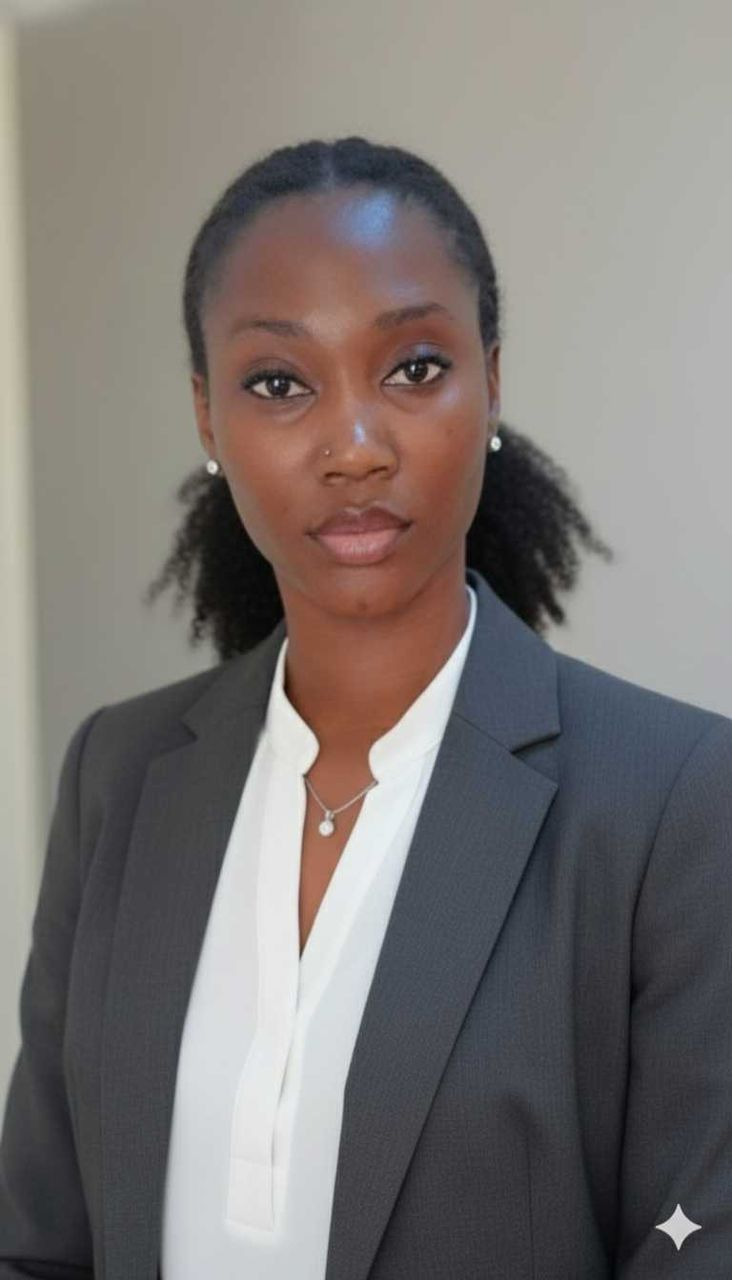
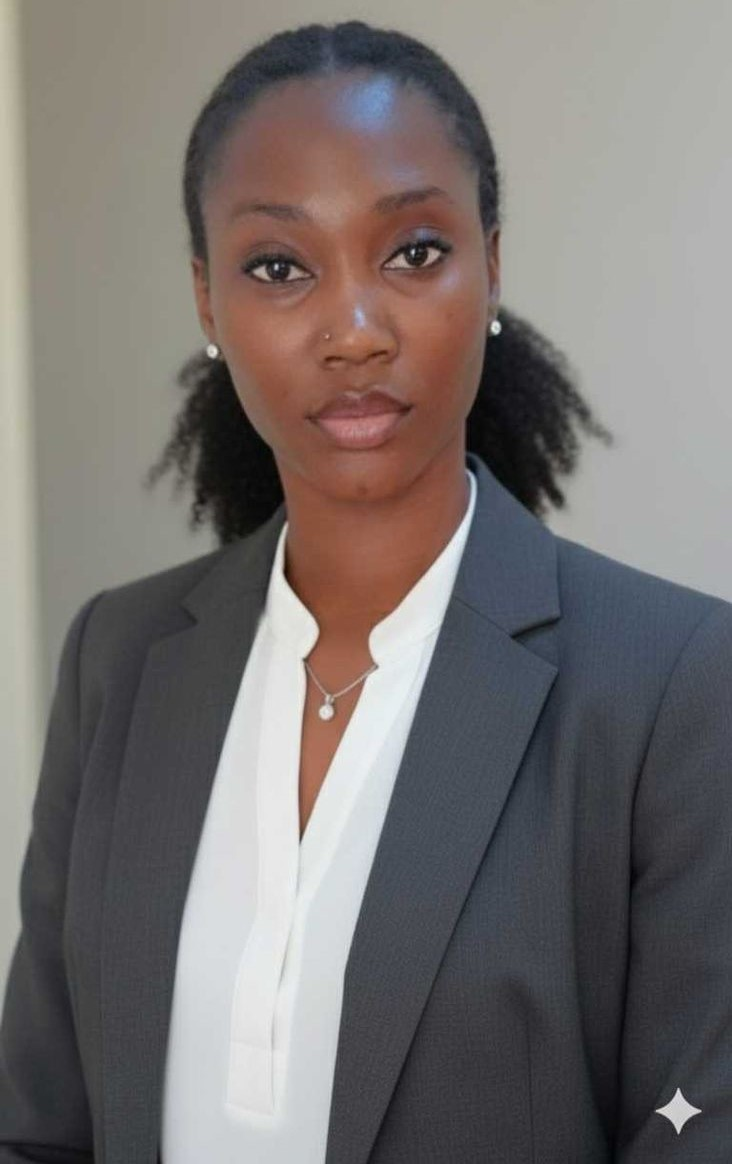
updates

diff --git a/src/components/about/Leadership.tsx b/src/components/about/Leadership.tsx
@@ -1,4 +1,3 @@
-import React from 'react';
 import { Instagram, Linkedin, X, } from 'lucide-react';
 import Link from 'next/link';
 import Image from 'next/image';
@@ -6,38 +5,39 @@ import Image from 'next/image';
 const leaders = [
   {
     id: 1,
+    name: "Stephanie Amarachi Patman",
+    title: "Managing Director & CEO",
+    image: "/people/amara.jpg",
+    x: "",
+    instagram: "https://www.instagram.com/amara.patman",
+    linkedin: "https://www.linkedin.com/in/stephanie-amarachi-patman-767992170/"
+  },
+  {
+    id: 2,
     name: "Victor Ogah Owoicho",
-    title: "Managing Director",
+    title: "Marketing Director",
     image: "/people/victor.jpg",
     x: "",
     instagram: "",
     linkedin: ""
   },
   {
-    id: 2,
+    id: 3,
     name: "Mgbebu Hilda Chiamaka",
     title: "Head of Finance and Investments",
     image: "/people/hilda.jpg",
     x: "",
     instagram: "",
-    linkedin: ""
+    linkedin: "https://www.linkedin.com/in/hilda-mgbebu-112b34194/"
   },
-  {
-    id: 3,
-    name: "Stephanie Amarachi Patman",
-    title: "Managing Director & CEO",
-    image: "/people/amara.jpg",
-    x: "",
-    instagram: "",
-    linkedin: ""
-  },
+
   {
     id: 4,
-    name: "Ochuwa Mercy Ochibo",
+    name: "Ochapa Mercy Ochiba",
     title: "Head of Operations",
     image: "/people/mercy.jpg",
     x: "",
-    instagram: "",
+    instagram: "https://www.instagram.com/ochiba25/",
     linkedin: ""
   },
   {
@@ -46,8 +46,8 @@ const leaders = [
     title: "Head of Legal & Compliance",
     image: "/people/joan.jpg",
     x: "",
-    instagram: "",
-    linkedin: ""
+    instagram: "https://www.instagram.com/terrific_joan_/",
+    linkedin: "https://www.linkedin.com/in/joan-anaba-210775232/"
   },
 ];
 
@@ -95,7 +95,7 @@ const Leadership = () => {
                   loading='lazy'
                   className="w-full h-full object-cover object-top transition-transform duration-700 group-hover:scale-105"
                 />
-                <div className="absolute inset-0 bg-gradient-to-t from-black/80 via-black/20 to-transparent" />
+                <div className="absolute inset-0 bg-linear-to-t from-black/80 via-black/20 to-transparent" />
               </div>
 
               {/* Content */}
@@ -111,7 +111,7 @@ const Leadership = () => {
                     rel="noopener noreferrer"
                     className="w-10 h-10 rounded-2xl border border-white/20 flex items-center justify-center text-gray-400 hover:text-white hover:border-amber-400 hover:bg-amber-400/10 transition-all duration-300 group/icon"
                   >
-                    <Instagram className="w-5 h-5 group-hover/icon:scale-110 transition-transform" />
+                    <Instagram className="w-5 h-5 text-purple-600 group-hover/icon:scale-110 transition-transform" />
                   </Link>}
 
                   {leader.x && <Link
@@ -120,7 +120,7 @@ const Leadership = () => {
                     rel="noopener noreferrer"
                     className="w-10 h-10 rounded-2xl border border-white/20 flex items-center justify-center text-gray-400 hover:text-white hover:border-amber-400 hover:bg-amber-400/10 transition-all duration-300 group/icon"
                   >
-                    <X className="w-5 h-5 group-hover/icon:scale-110 transition-transform" />
+                    <X className="w-5 h-5 text-white group-hover/icon:scale-110 transition-transform" />
                   </Link>}
 
                   {leader.linkedin && <Link
@@ -129,7 +129,7 @@ const Leadership = () => {
                     rel="noopener noreferrer"
                     className="w-10 h-10 rounded-2xl border border-white/20 flex items-center justify-center text-gray-400 hover:text-white hover:border-amber-400 hover:bg-amber-400/10 transition-all duration-300 group/icon"
                   >
-                    <Linkedin className="w-5 h-5 group-hover/icon:scale-110 transition-transform" />
+                    <Linkedin className="w-5 h-5 text-blue-600 group-hover/icon:scale-110 transition-transform" />
                   </Link>}
                 </div>
               </div>

diff --git a/src/components/Footer.tsx b/src/components/Footer.tsx
@@ -1,6 +1,6 @@
 import Link from 'next/link';
 import Image from 'next/image';
-import { Linkedin, Twitter, MapPin, Mail, Phone } from 'lucide-react';
+import { Linkedin, MapPin, Mail, Phone, X, Instagram } from 'lucide-react';
 
 const footerLinks = {
   Company: [
@@ -37,9 +37,9 @@ export default function Footer() {
               <Image
                 src="/logo.png"
                 alt="LXXI"
-                width={90}
-                height={40}
-                className="h-10 w-auto"
+                width={900}
+                height={900}
+                className="h-16 w-auto"
               />
             </Link>
             <p className="text-gray-400 text-sm leading-loose mb-6 max-w-xs">
@@ -51,33 +51,35 @@ export default function Footer() {
             {/* Contact info */}
             <div className="space-y-3 mb-6">
               <div className="flex items-start gap-2.5 text-gray-400 text-sm">
-                <MapPin size={14} className="text-[#E5B63E] mt-0.5 flex-shrink-0" />
+                <MapPin size={14} className="text-[#E5B63E] mt-0.5 shrink-0" />
                 <span>Abuja, Nigeria</span>
               </div>
               <div className="flex items-center gap-2.5 text-gray-400 text-sm">
-                <Mail size={14} className="text-[#E5B63E] flex-shrink-0" />
+                <Mail size={14} className="text-[#E5B63E] shrink-0" />
                 <span>[email redacted]</span>
               </div>
               <div className="flex items-center gap-2.5 text-gray-400 text-sm">
-                <Phone size={14} className="text-[#E5B63E] flex-shrink-0" />
-                <span>+234 800 000 0000</span>
+                <Phone size={14} className="text-[#E5B63E] shrink-0" />
+                <span>+234 814 094 0409</span>
               </div>
             </div>
 
             {/* Social icons */}
             <div className="flex gap-3">
               {[
-                { Icon: Linkedin, label: 'LinkedIn' },
-                { Icon: Twitter, label: 'Twitter' },
-              ].map(({ Icon, label }) => (
-                <a
+                { Icon: Linkedin, label: 'LinkedIn', href: 'https://www.linkedin.com/company/lxxi/', color: "text-blue-600" },
+                { Icon: X, label: 'Twitter', href: 'https://x.com/LXXILimited', color: "text-white" },
+                { Icon: Instagram, label: 'Instagram', href: 'https://www.instagram.com/lxxibrokerage/', color: "text-purple-600" },
+              ].map(({ Icon, label, href, color }) => (
+                <Link
                   key={label}
-                  href="#"
+                  href={href}
+                  target='_blank'
                   aria-label={label}
                   className="w-9 h-9 rounded-lg bg-[rgba(229,182,62,0.08)] border border-[rgba(229,182,62,0.15)] flex items-center justify-center text-gray-400 hover:text-[#E5B63E] hover:border-[rgba(229,182,62,0.4)] hover:bg-[rgba(229,182,62,0.12)] transition-all duration-200"
                 >
-                  <Icon size={15} />
-                </a>
+                  <Icon size={20} className={color} />
+                </Link>
               ))}
             </div>
           </div>

diff --git a/src/components/home/TrustedPartners.tsx b/src/components/home/TrustedPartners.tsx
@@ -1,30 +1,32 @@
 import Image from "next/image";
 
-export default function TrustedPartners() {
+export default function TrustedPartners({ title }: { title?: string }) {
     const logos = [
         "/logos/maison.jpeg",
+        "/logos/afrexim_bank.png",
+        "/logos/ifc.jpg"
     ];
 
     return (
         <section className="bg-gray-100 py-16 px-6 md:px-20 overflow-hidden">
             <div className="max-w-6xl mx-auto text-center mb-10">
                 <h2 className="text-2xl md:text-3xl font-medium text-gray-900">
-                    Trusted by Investors across Africa
+                    {title || "Trusted by Investors across Africa"}
                 </h2>
             </div>
 
             {/* Marquee */}
             <div className="relative">
                 <div className="flex gap-16 items-center animate-marquee">
-                    {[...logos, ...logos].map((logo, i) => (
+                    {[...logos].map((logo, i) => (
                         <div
                             key={i}
-                            className="flex items-center justify-center min-w-[150px] h-[100px] rounded-lg shadow-sm hover:shadow-md transition"
+                            className="flex items-center justify-center min-w-[150px] h-[200px] rounded-lg shadow-sm hover:shadow-md transition"
                         >
                             <Image
                                 src={logo}
                                 alt="partner logo"
-                                className="max-h-12 object-contain grayscale opacity-80 hover:grayscale-0 hover:opacity-100 transition duration-300"
+                                className="max-h-32 object-contain opacity-95 hover:opacity-100 transition duration-300"
                                 width={400}
                                 height={400}
                                 loading="lazy"

diff --git a/src/components/Navbar.tsx b/src/components/Navbar.tsx
@@ -60,13 +60,13 @@ export default function Navbar() {
         <div className="max-w-7xl mx-auto px-6 lg:px-10">
           <div className="flex items-center justify-between h-16 md:h-20">
             {/* Logo */}
-            <Link href="/" className="flex items-center gap-2 z-50 flex-shrink-0">
+            <Link href="/" className="flex items-center gap-2 z-50 shrink-0">
               <Image
                 src="/logo.png"
                 alt="LXXI Logo"
                 width={900}
-                height={400}
-                className="h-12 w-auto object-contain"
+                height={900}
+                className="h-16 w-auto object-contain"
                 priority
               />
             </Link>

diff --git a/src/app/about/page.tsx b/src/app/about/page.tsx
@@ -9,6 +9,7 @@ import Mission from '@/components/about/Mission';
 import TimelineSection from '@/components/about/TimeLine';
 import OurPrinciples from '@/components/about/OurPrinciples';
 import Leadership from '@/components/about/Leadership';
+import TrustedPartners from '@/components/home/TrustedPartners';
 
 export const metadata: Metadata = {
   title: 'LXXI Limited — Defined by Purpose. Driven by Africa.',
@@ -32,6 +33,7 @@ export default function Home() {
       <TimelineSection />
       <OurPrinciples />
       <Leadership />
+      <TrustedPartners title='Trusted by Institutions that matter' />
       {/* <GlobalConnectivity /> */}
       {/* <Legacy /> */}
       {/* <DynamicMarkets /> */}

diff --git a/src/app/layout.tsx b/src/app/layout.tsx
@@ -39,7 +39,7 @@ export default function RootLayout({
   children: React.ReactNode;
 }) {
   return (
-    <html lang="en" className={`${inter.variable} ${playfair.variable}`}>
+    <html lang="en" data-scroll-behavior="smooth" className={`${inter.variable} ${playfair.variable}`}>
       <body className='flex flex-col justify-between min-h-full'>
         <AOSInitializer />
         <Navbar />